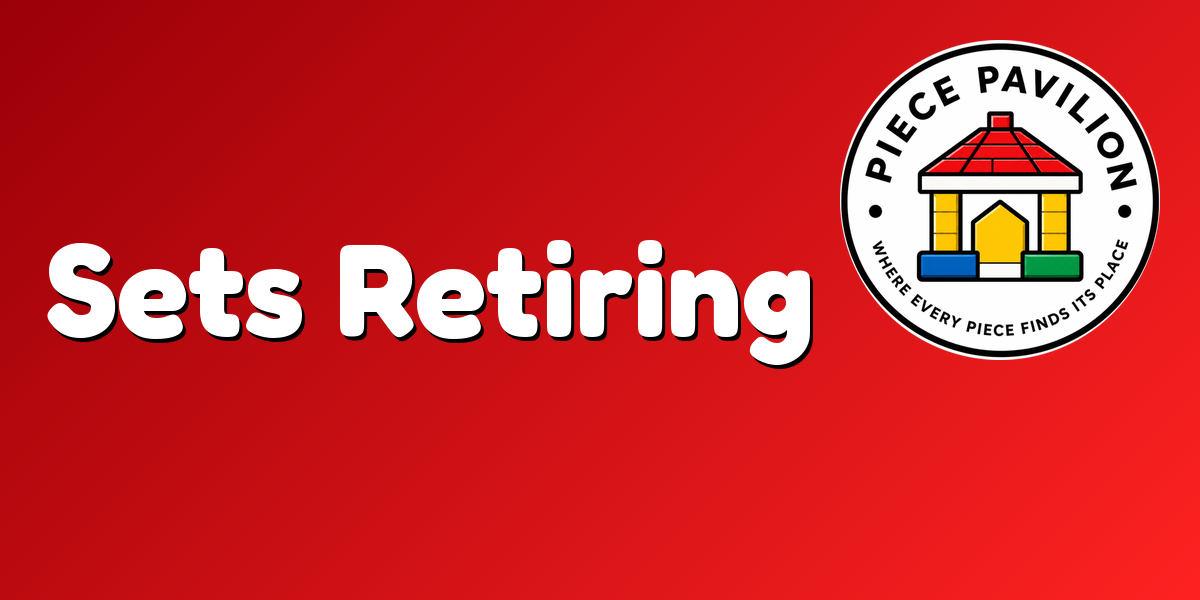
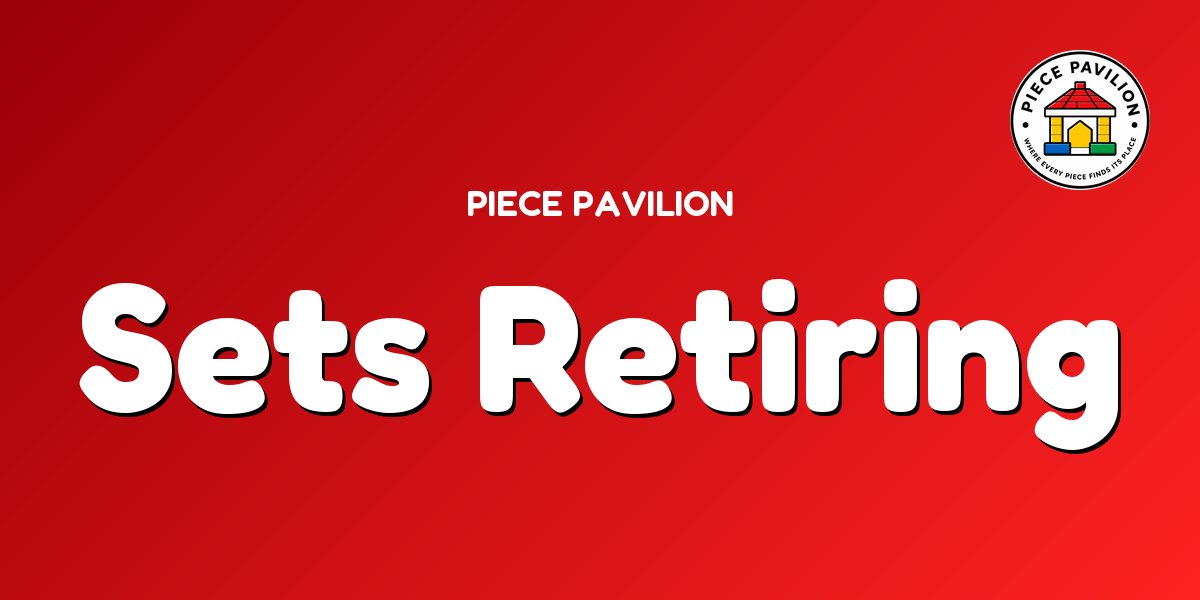
blog thumbs: match hand-made layout exactly
- Shrink the seal badge from 320px to 140px (matches hand-made size)
- Add 'PIECE PAVILION' small label centered above the title
- Center the big phrase horizontally across the full 1200px canvas

Hand-made Advent 2026 / Halloween Guide thumbs now have an
auto-generated twin: red diagonal gradient, Fredoka Bold drop-shadow
title, small centered label, small seal top-right.

Changed region(s): [[0.0308, 0.06, 0.9867, 0.75], [0.37, 0.3, 0.6167, 0.36]]

diff --git a/scripts/rebuild_blog_listing.py b/scripts/rebuild_blog_listing.py
@@ -115,10 +115,9 @@ def _fit_font(draw, text, path, max_width, target_size, min_size=24):
 
 def generate_thumb_png(title, slug, out_path):
     """Render a 1200x600 PNG thumbnail matching the hand-made PNG style:
-    red-wine gradient background, big Title Case phrase in Fredoka Bold,
-    circular pavilion seal pasted from logo-white.png in the top-right."""
+    red diagonal gradient, small 'PIECE PAVILION' label centered above a
+    big Title Case phrase in Fredoka Bold, small seal logo in top-right."""
     W, H = 1200, 600
-    img = Image.new("RGB", (W, H), (155, 0, 8))
 
     # Diagonal gradient from dark red (top-left) to bright red (bottom-right).
     base = Image.new("RGB", (W, H))
@@ -131,29 +130,34 @@ def generate_thumb_png(title, slug, out_path):
             b = int(8   + (34  - 8)   * t)
             px[x, y] = (r, g, b)
     img = base
-
     draw = ImageDraw.Draw(img)
 
-    # Seal logo in top-right. Resize to 320x320 so it dominates the corner
-    # the way the hand-made PNGs do.
+    # Seal logo in top-right, same visual size as the hand-made thumbs
+    # (~140px on a 1200x600 canvas).
     try:
         seal = Image.open(LOGO).convert("RGBA")
-        seal_sz = 320
+        seal_sz = 140
         seal = seal.resize((seal_sz, seal_sz), Image.LANCZOS)
-        img.paste(seal, (W - seal_sz - 40, 40), seal)
+        img.paste(seal, (W - seal_sz - 50, 50), seal)
     except Exception as e:
         print("  WARN: logo paste failed: %s" % e)
 
-    # Big phrase in Fredoka Bold, centered horizontally in the LEFT area
-    # (not the whole width — leave the seal space on the right).
+    # 'PIECE PAVILION' small label centered horizontally above the title.
+    label = "PIECE PAVILION"
+    label_font = ImageFont.truetype(FONT_SEMI, 36)
+    lb = draw.textbbox((0, 0), label, font=label_font)
+    lw = lb[2] - lb[0]
+    draw.text(((W - lw) // 2, 180), label, font=label_font,
+              fill=(255, 255, 255, 230))
+
+    # Big phrase in Fredoka Bold, centered horizontally.
     phrase = thumb_phrase(title)
-    left_area_width = W - 320 - 100  # minus seal + padding
-    font = _fit_font(draw, phrase, FONT_BOLD, left_area_width, 180, min_size=60)
+    font = _fit_font(draw, phrase, FONT_BOLD, W - 120, 180, min_size=72)
     bbox = draw.textbbox((0, 0), phrase, font=font)
     text_w = bbox[2] - bbox[0]
     text_h = bbox[3] - bbox[1]
-    x = (left_area_width - text_w) // 2 + 40
-    y = (H - text_h) // 2 - 30
+    x = (W - text_w) // 2
+    y = (H - text_h) // 2 + 20
     # Soft drop shadow for depth.
     draw.text((x + 3, y + 4), phrase, font=font, fill=(0, 0, 0, 120))
     draw.text((x, y), phrase, font=font, fill=(255, 255, 255))
